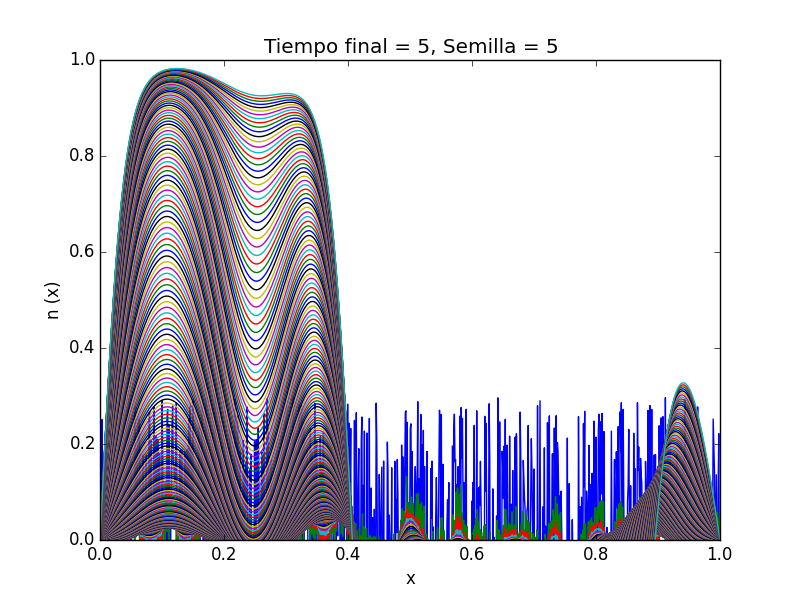
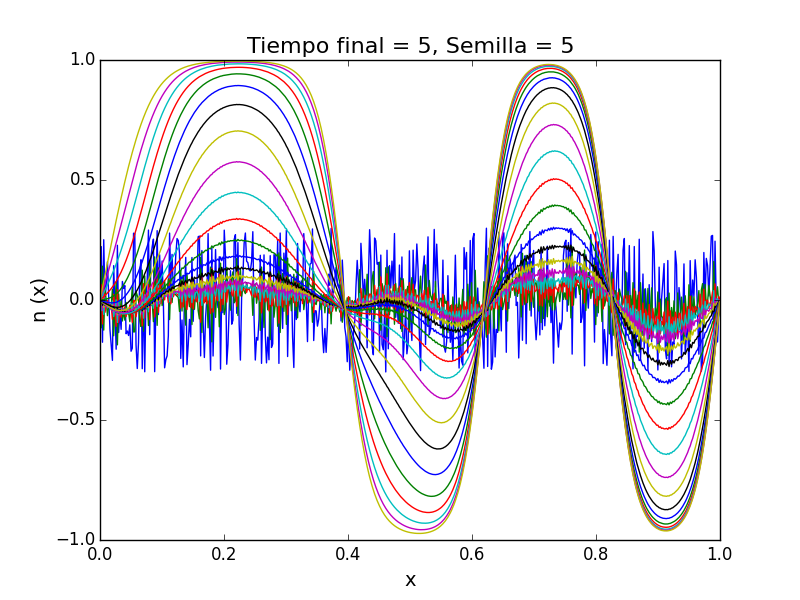
añade variados plots

diff --git a/p2.py b/p2.py
@@ -57,17 +57,17 @@ def avanza_paso_temporal(n, n_next, alfa, beta, steps_x, steps_t):
 # Main
 
 # setup
-seteo = 53849
+seteo = input('Valor semilla?: ')
 np.random.seed(seteo)
 gamma = 0.001
 mu = 1.5
 ti = 0
-tf = 5
+tf = 20
 xi = 0
 xf = 1
 
 steps_t = 1000
-steps_x = 1000
+steps_x = 500
 
 dt = (tf - ti) / (steps_t - 1)
 h = (xf - xi) / (steps_x - 1)
@@ -108,11 +108,12 @@ ax = fig.add_subplot(111)
 
 for i in range(0, steps_t, tf):
     ax.plot(x, n_solucion[i, :])
-ax.set_ylim(0, 1)
+ax.set_ylim(-1, 1)
 
-plt.xlabel('x')
-plt.ylabel('n (x)')
-plt.title("Tiempo final = {tf}, Semilla = {seteo}".format(tf=tf, seteo=seteo))
+plt.xlabel('x', fontsize=14)
+plt.ylabel('n (x)', fontsize=14)
+plt.title("Tiempo final = {tf}, Semilla = {seteo}".format(tf=tf, seteo=seteo),
+          fontsize=16)
 plt.savefig("p2_tf{tf}_setrandom{seteo}.png".format(tf=tf, seteo=seteo))
 
 plt.show()

diff --git a/p1.py b/p1.py
@@ -62,12 +62,12 @@ def avanza_paso_temporal(n, n_next, alfa, beta, steps_x, steps_t):
 gamma = 0.001
 mu = 1.5
 ti = 0
-tf = 100
+tf = 50
 xi = 0
 xf = 1
 
 steps_t = 10000
-steps_x = 400
+steps_x = 500
 
 dt = (tf - ti) / (steps_t - 1)
 h = (xf - xi) / (steps_x - 1)
